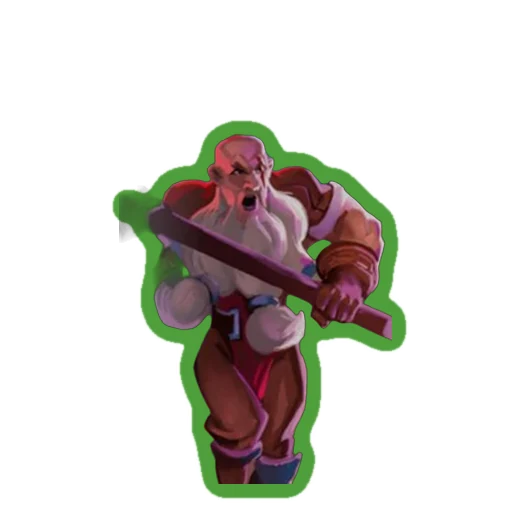
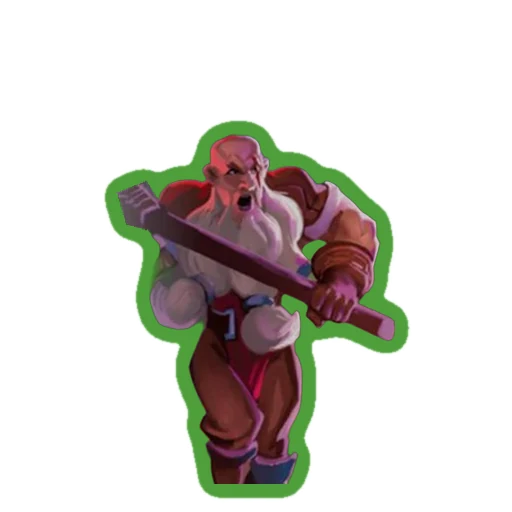
Brok's pawn shows his whole hammer
The model took the hammer's head for the mist around it, and the crop cut off
the handle's end: the crop is wider, and the head is kept by hand (keeps in
warchief-pawns.py), on the card art's colors. The script can now remake only
the pawns named on its command line.

Claude-Session: https://claude.ai/code/session_01GhyFvoAkzRodTf61L8rYef

Changed region(s): [[0.1875, 0.2188, 0.8125, 0.9688]]

diff --git a/haunt-roll-fail/nort/tools/warchief-pawns.py b/haunt-roll-fail/nort/tools/warchief-pawns.py
@@ -5,7 +5,7 @@
 # thin white rim. The figures are cut from the art with the BiRefNet model of rembg (pip install rembg), one
 # process for each, as the model runs out of memory over several images in one process.
 #
-#   python3 warchief-pawns.py <webp2/nort/images>
+#   python3 warchief-pawns.py <webp2/nort/images> [<name> ...]     (only those pawns, e.g. brok)
 
 import sys, os, subprocess, tempfile
 import numpy
@@ -17,7 +17,7 @@ from PIL import Image, ImageDraw, ImageFilter
 pawns = {
     "dragon": ("dragon-tenacious-grudge", (0, 150, 412, 480)),
     "horse": ("horse-eitria-and-broks-precision", (200, 150, 412, 470)),
-    "brok": ("horse-eitria-and-broks-precision", (0, 150, 240, 470)),
+    "brok": ("horse-eitria-and-broks-precision", (0, 150, 256, 470)),
     "kraken": ("kraken-howl-from-the-sea", (0, 150, 412, 455)),
     "lynx": ("lynx-the-wise-one", (0, 150, 412, 500)),
     "ox": ("ox-the-true-hero", (0, 150, 412, 455)),
@@ -30,6 +30,11 @@ pawns = {
 cuts = {
     "rat": [(80, 0, 360, 146)],
     "squirrel": [(85, 0, 360, 150)],
+}
+
+# Parts kept in the figure, in card pixels, that the model takes for the mist around them: the head of Brok's hammer
+keeps = {
+    "brok": [[(2, 213), (27, 203), (42, 226), (40, 240), (27, 246), (10, 241)]],
 }
 
 # The middle of each color's unit figure (token/unit/unit-<color>.webp)
@@ -75,18 +80,23 @@ if len(sys.argv) == 4 and sys.argv[1] == "--cut":
     sys.exit(0)
 
 images = sys.argv[1]
+only = sys.argv[2:]
 tmp = tempfile.mkdtemp()
 
 for name, (card, box) in pawns.items():
+    if only and name not in only:
+        continue
     art = Image.open(images + "/card/clan/" + card + ".webp").convert("RGB").crop(box)
     art.save(tmp + "/art.png")
     subprocess.run([sys.executable, "-I", os.path.abspath(__file__), "--cut", tmp + "/art.png", tmp + "/fig.png"], check = True)
-    fig = Image.open(tmp + "/fig.png").convert("RGBA")
-
-    a = fig.split()[3]
+    # The model's shape, on the art's colors (it blanks them where it found background, as in the kept parts)
+    a = Image.open(tmp + "/fig.png").split()[3]
+    fig = art.convert("RGBA")
     d = ImageDraw.Draw(a)
     for (l, t, r, b) in cuts.get(name, []):
         d.rectangle((l - box[0], t - box[1], r - box[0], b - box[1]), fill = 0)
+    for shape in keeps.get(name, []):
+        d.polygon([(x - box[0], y - box[1]) for (x, y) in shape], fill = 255)
     # Drops the faint haze the model leaves around the figure
     a = biggest(a.point(lambda v: 0 if v < 40 else v))
     fig.putalpha(a)
